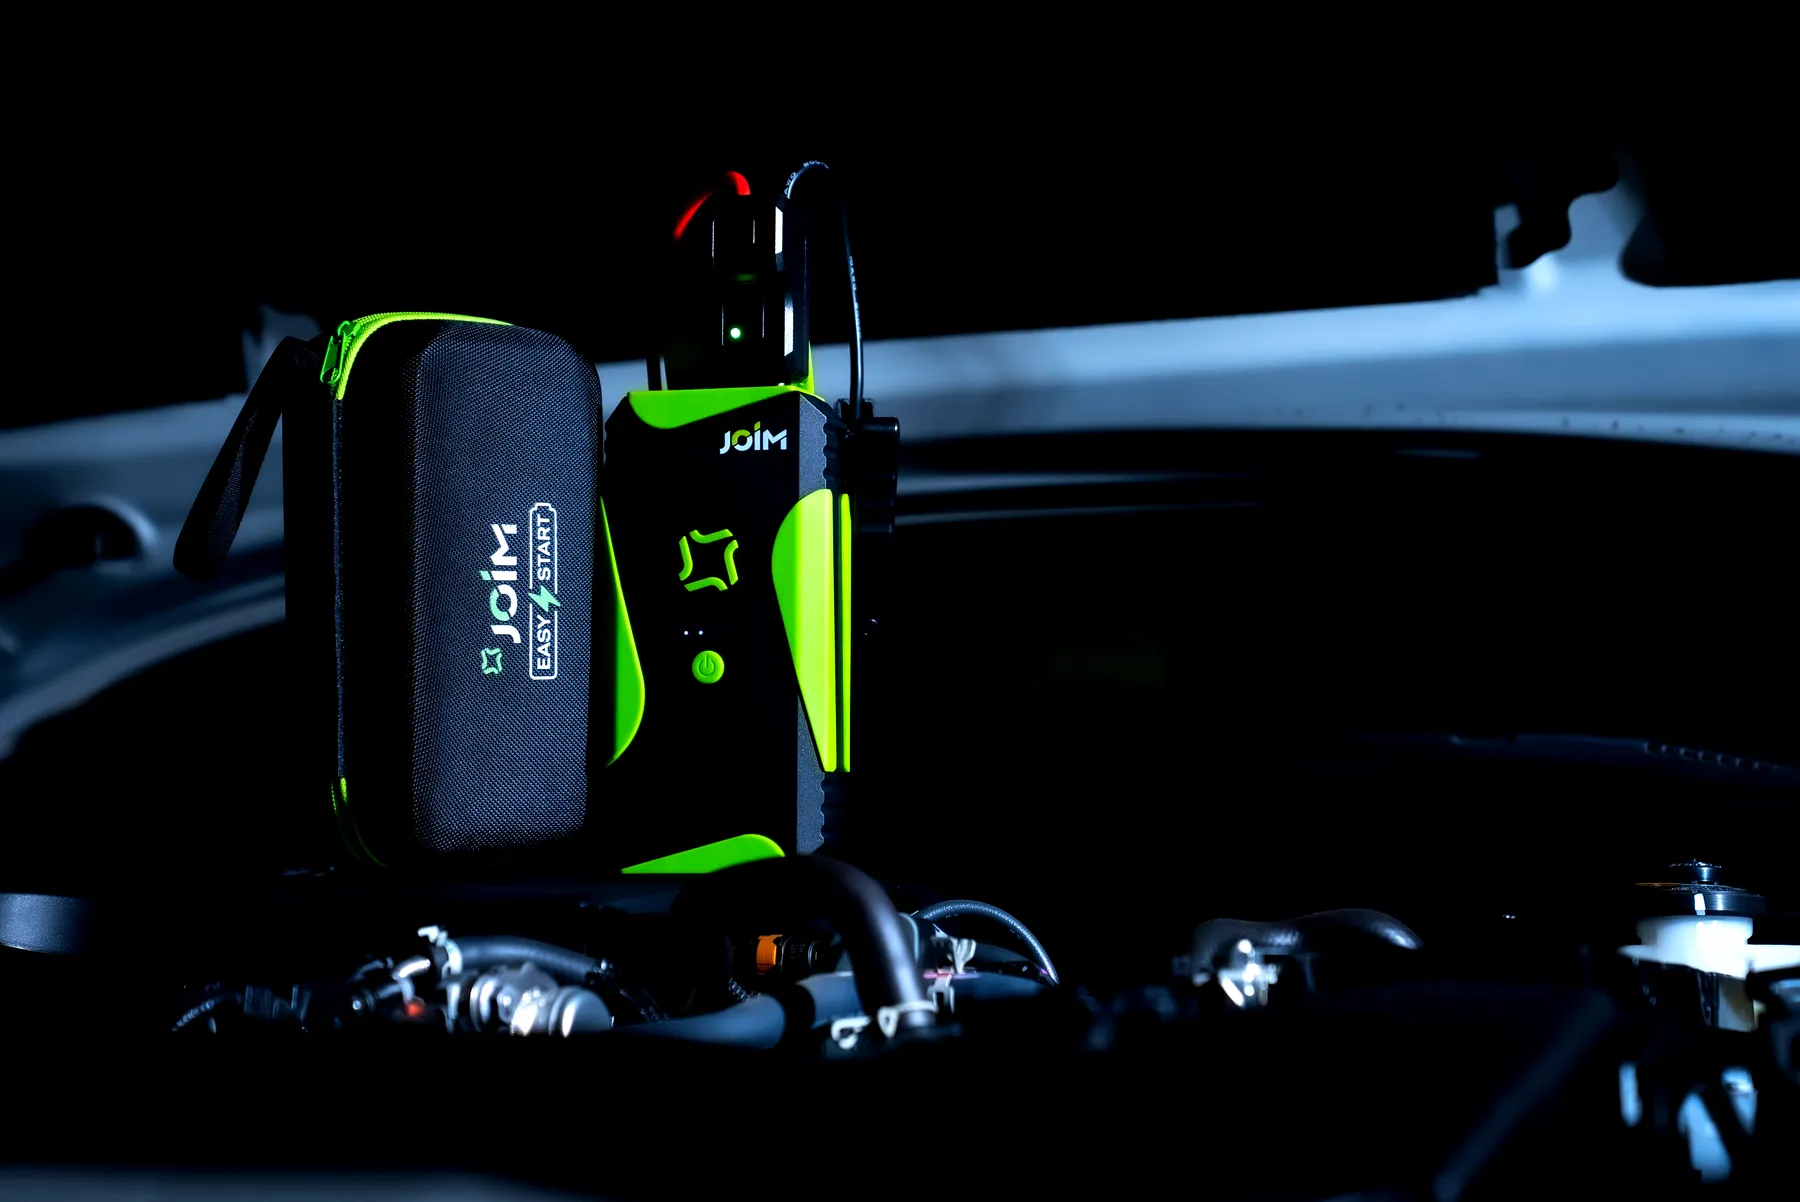
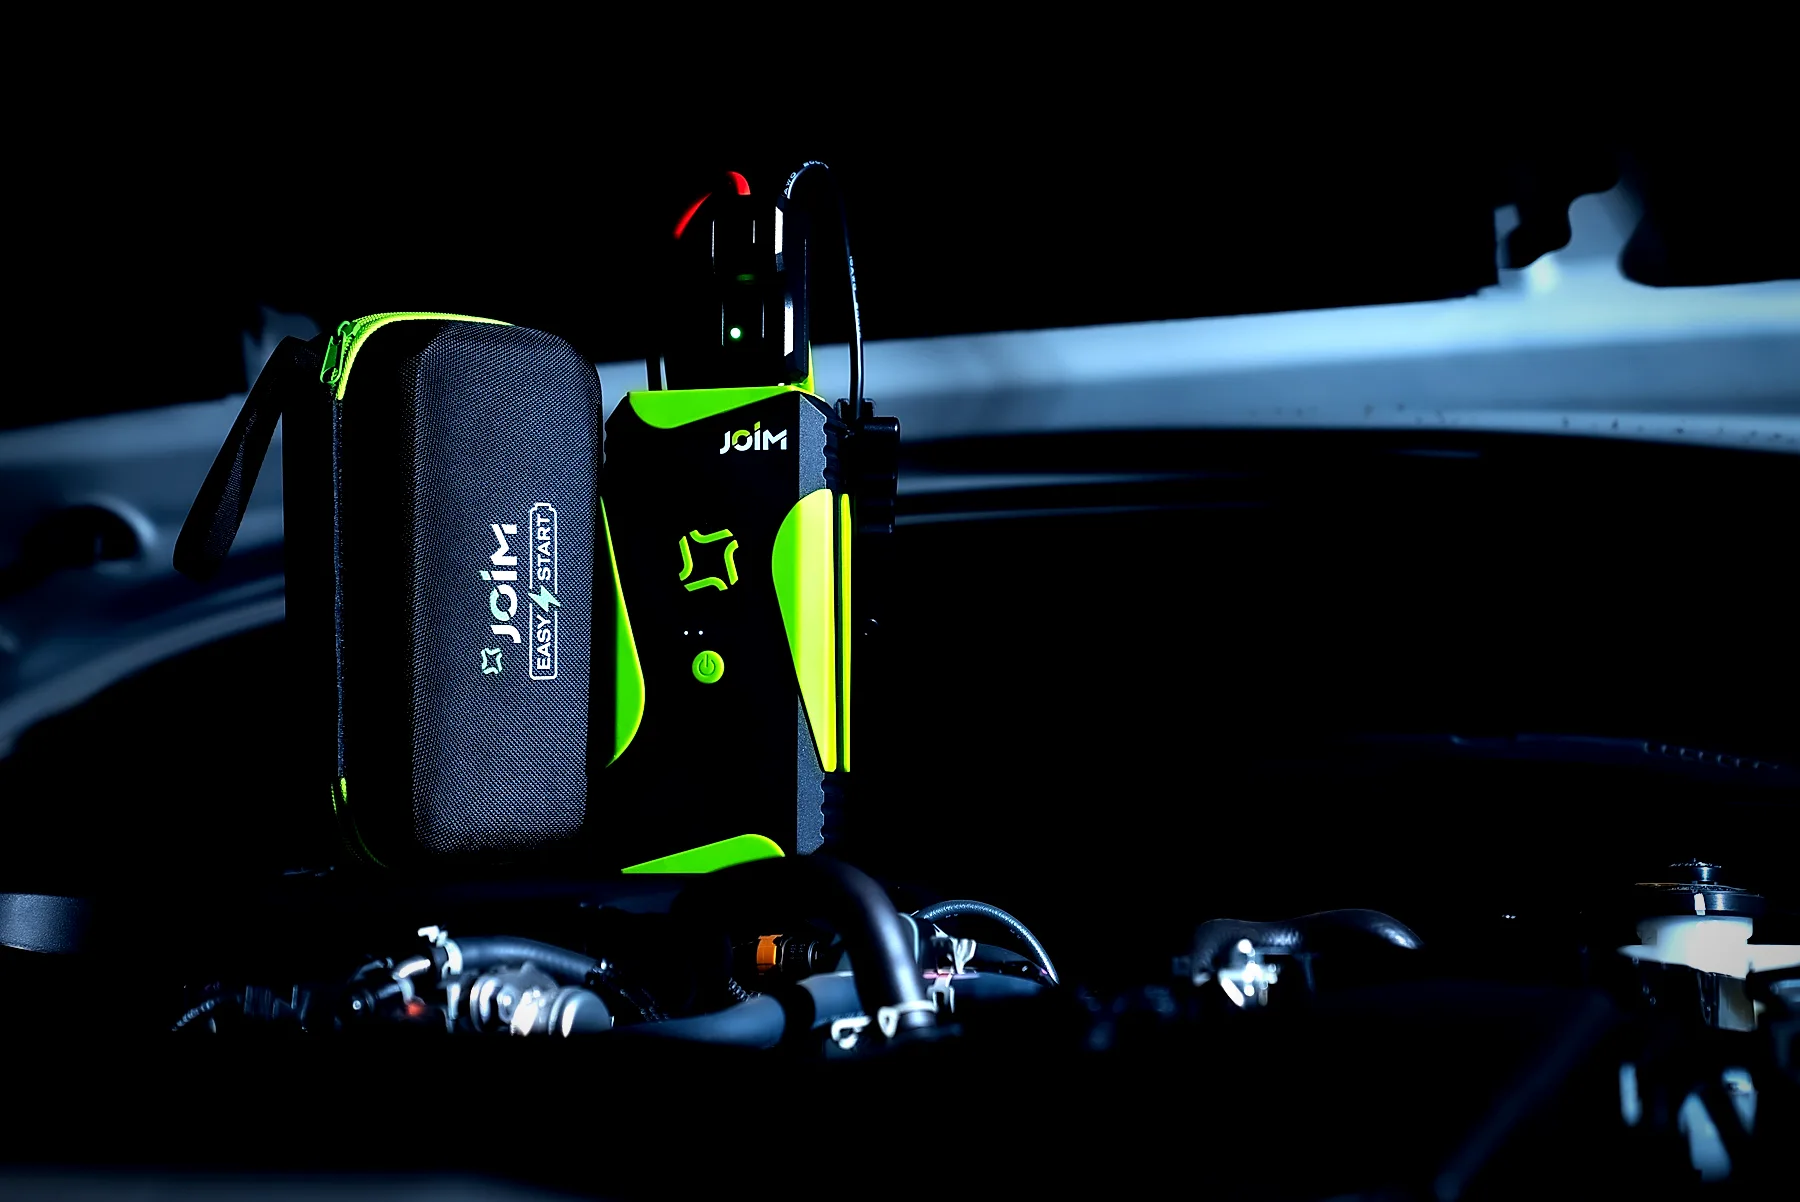
Цветокоррекция фонов первого экрана и анкеты
Раздельное тонирование по каналам: диапазон растянут, тени уведены
в холод, света нейтральны, насыщенность бьёт по акцентам. Микроконтраст
большим радиусом — без каймы по контурам.

Завесы перекрашены с цвета плашки на цвет страницы: на графите набранный
диапазон гас в сером. Контраст текста вырос: 18 / 9,1 / 5,8.

diff --git a/components/sections/LeadForm.tsx b/components/sections/LeadForm.tsx
@@ -66,9 +66,9 @@ export function LeadForm() {
             {/* Завеса плотная там, где текст и поля, и отпускает кадр
                 внизу слева, где стоит предмет. Раньше она шла ровно
                 и глушила снимок целиком. */}
-            <div className="absolute inset-0 hidden bg-[linear-gradient(168deg,rgba(29,33,31,0.95)_0%,rgba(29,33,31,0.9)_34%,rgba(29,33,31,0.72)_58%,rgba(29,33,31,0.5)_82%,rgba(29,33,31,0.44)_100%)] lg:block" />
-            <div className="absolute inset-0 hidden bg-[linear-gradient(to_right,transparent_0%,transparent_38%,rgba(29,33,31,0.5)_62%,rgba(29,33,31,0.72)_100%)] lg:block" />
-            <div className="absolute inset-0 bg-[linear-gradient(to_bottom,rgba(29,33,31,0.9),rgba(29,33,31,0.94))] lg:hidden" />
+            <div className="absolute inset-0 hidden bg-[linear-gradient(168deg,rgba(17,19,19,0.96)_0%,rgba(17,19,19,0.9)_34%,rgba(17,19,19,0.62)_58%,rgba(17,19,19,0.4)_82%,rgba(17,19,19,0.34)_100%)] lg:block" />
+            <div className="absolute inset-0 hidden bg-[linear-gradient(to_right,transparent_0%,transparent_40%,rgba(17,19,19,0.45)_64%,rgba(17,19,19,0.7)_100%)] lg:block" />
+            <div className="absolute inset-0 bg-[linear-gradient(to_bottom,rgba(17,19,19,0.88),rgba(17,19,19,0.93))] lg:hidden" />
           </div>
 
           <div
